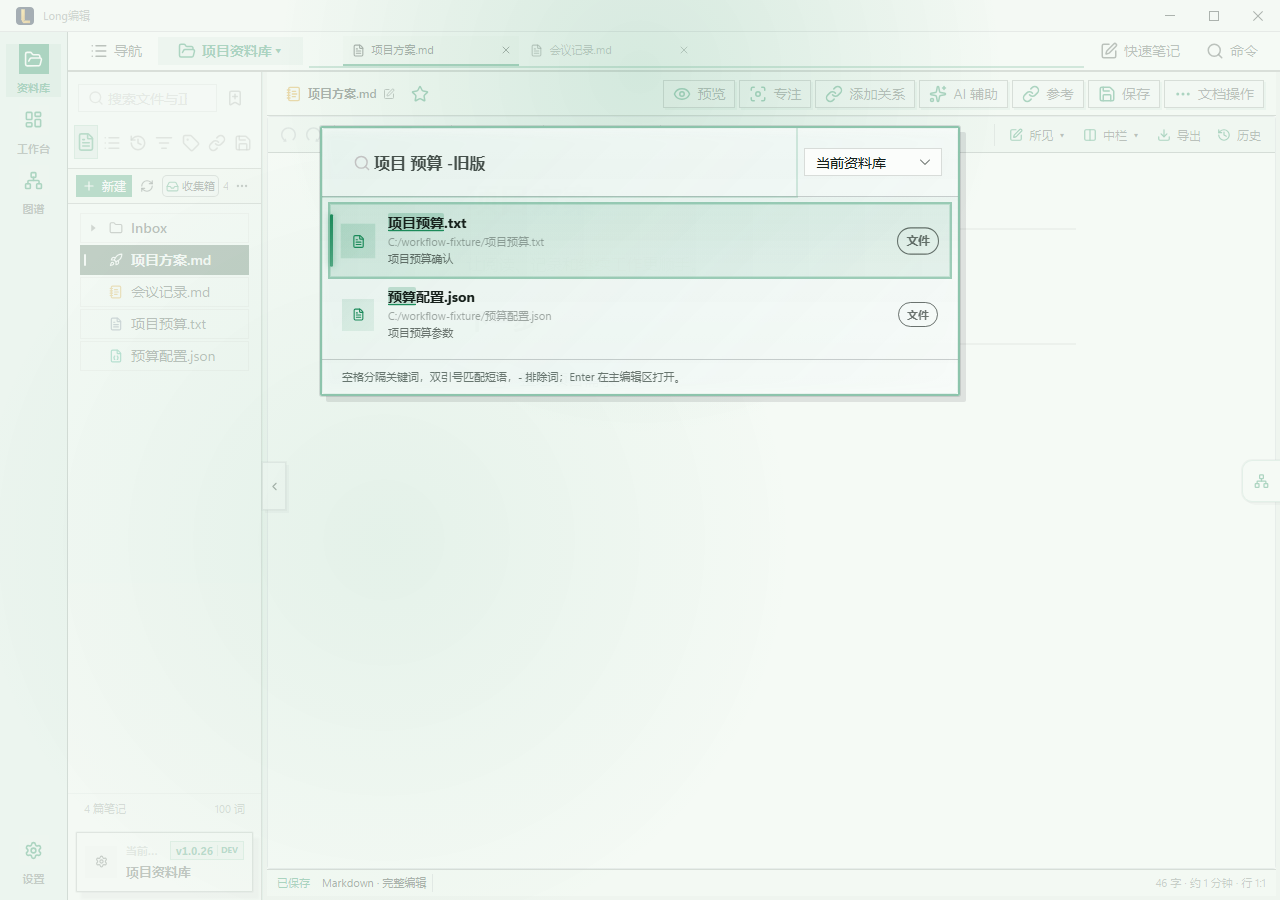
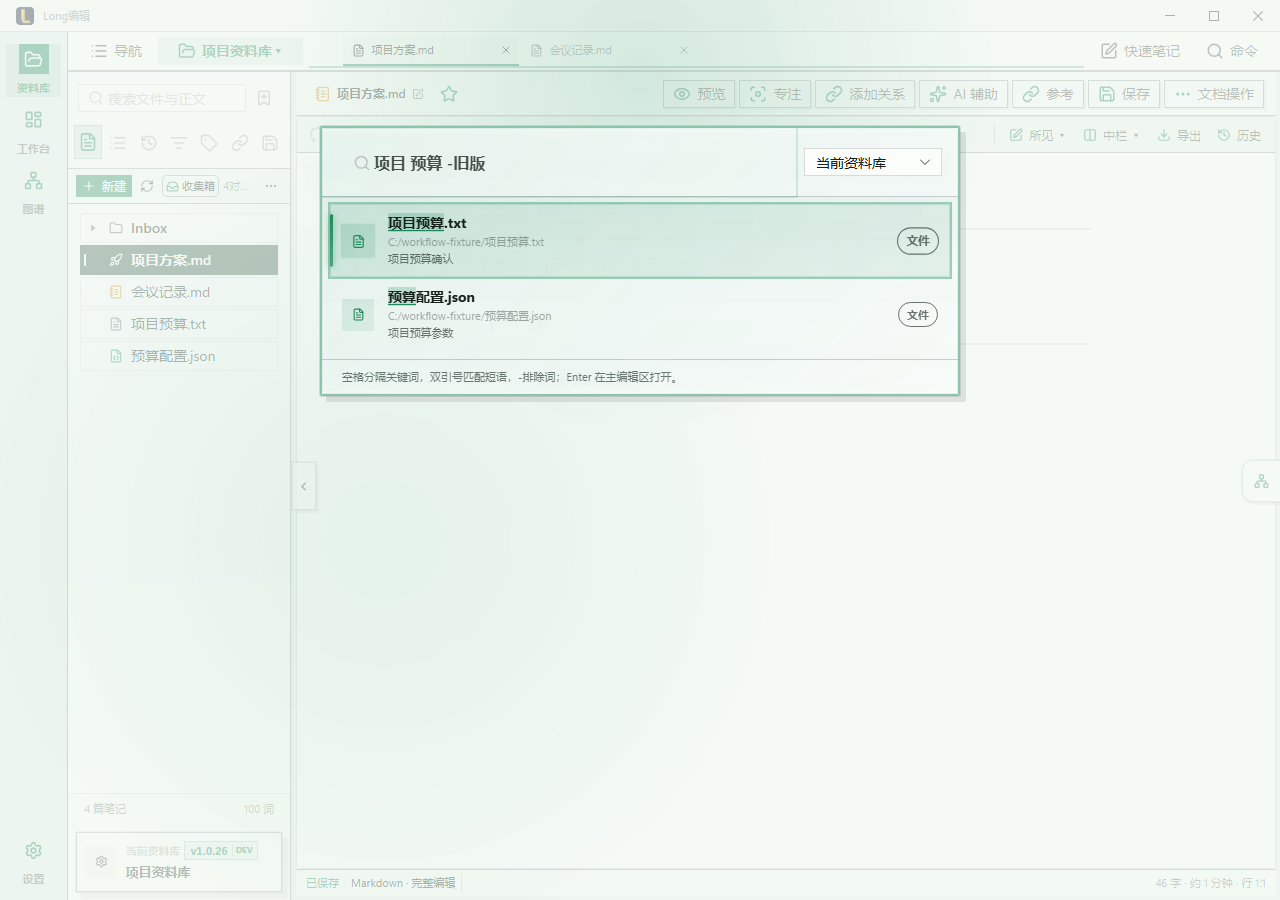
fix: parse quoted HTML image attributes safely and label the real search input

diff --git a/src/components/CommandPalette.vue b/src/components/CommandPalette.vue
@@ -8,7 +8,7 @@
           ref="inputInst"
           v-model:value="query"
           placeholder="搜索笔记或执行命令 (> 开头)"
-          aria-label="搜索资料或命令"
+          :input-props="{ 'aria-label': '搜索资料或命令' }"
           :maxlength="500"
           :disabled="opening"
           @keydown.enter="handleEnter"
@@ -51,7 +51,7 @@
         <div class="no-results" v-else-if="query.trim().length > 0 && !searching && !error">
           无匹配结果
         </div>
-        <div v-if="!query.startsWith('>')" class="palette-status palette-help">{{ limitReached ? '最多显示 200 条结果。' : '' }}空格分隔关键词，双引号匹配短语，- 排除词；Enter 在主编辑区打开。</div>
+        <div v-if="!query.startsWith('>')" class="palette-status palette-help">{{ limitReached ? '最多显示 200 条结果。' : '' }}空格分隔关键词，双引号匹配短语，-排除词；Enter 在主编辑区打开。</div>
       </div>
     </div>
   </transition>

diff --git a/src-tauri/src/services/external_import.rs b/src-tauri/src/services/external_import.rs
@@ -12,7 +12,10 @@ use std::{
 };
 
 static HTML_IMAGE: LazyLock<regex::Regex> = LazyLock::new(|| {
-    regex::Regex::new(r#"(?is)<img\b[^>]*?\s+src\s*=\s*(?:"([^"]*)"|'([^']*)'|([^\s>]+))"#).unwrap()
+    regex::Regex::new(
+        r#"(?is)<img\b(?:"[^"]*"|'[^']*'|[^"'<>])*?\s+src\s*=\s*(?:"([^"]*)"|'([^']*)'|([^\s>]+))"#,
+    )
+    .unwrap()
 });
 const MAX_MARKDOWN_BYTES: u64 = 20 * 1024 * 1024;
 const MAX_IMAGES: usize = 512;
@@ -473,6 +476,35 @@ mod tests {
             fs::read(root.join("library/data.table.json")).unwrap(),
             b"existing"
         );
+        fs::remove_dir_all(root).unwrap();
+    }
+    #[test]
+    fn html_image_attributes_do_not_hide_or_impersonate_the_real_source() {
+        let root = fixture();
+        let source = root.join("source/note.md");
+        let text =
+            "<img title=\"a > b\" data-hint=\" src='images/missing.png'\" src=\"images/a.png\">\n";
+        fs::write(&source, text).unwrap();
+        fs::write(root.join("source/images/a.png"), b"real-image").unwrap();
+        let imported = import_file(&source, &root.join("library")).unwrap();
+        let content = fs::read_to_string(imported).unwrap();
+        assert!(content.contains("note.assets/0001-a.png"), "the real src must be migrated even when other attributes contain angle brackets or src-like text");
+        assert!(content.contains("data-hint=\" src='images/missing.png'\""));
+        assert_eq!(
+            fs::read(root.join("library/note.assets/0001-a.png")).unwrap(),
+            b"real-image"
+        );
+        assert_eq!(fs::read_to_string(&source).unwrap(), text);
+        fs::write(
+            &source,
+            "<img alt=\" src='images/a.png'\" src=\"images/missing.png\">",
+        )
+        .unwrap();
+        assert!(
+            import_file(&source, &root.join("library")).is_err(),
+            "an attribute must not impersonate a missing real image source"
+        );
+        assert!(!root.join("library/note - 副本.md").exists());
         fs::remove_dir_all(root).unwrap();
     }
     #[test]

diff --git a/docs/V1_1_5_Unsigned_Community_Release_Audit_2026-10-15.md b/docs/V1_1_5_Unsigned_Community_Release_Audit_2026-10-15.md
@@ -10,6 +10,10 @@
 
 2026-10-16 接续：44 份当前版本身份文件已从 1.1.4 原子迁移到 1.1.5（含 37 份合同），历史报告不变。迁移后完整 `npm run ci:patch-release` 通过，生产依赖审计 0 漏洞。新增 10 项安装态流程和严格证据绑定检查，包含完整证据可接受、缺失/改写/错误安装器摘要必须拒绝的回归；安装流程尚待实际执行，不能把脚本存在当成已验收。
 
+首轮冻结源码 `b4634214076972b6401973d73507869e905b53d9` 的构建运行 `38766390430` 主动取消，不能用于晋级：收尾自审发现 HTML 图片属性包含 `>` 或类似 `src=` 的文字时，正则会忽略/误认真实图片路径。新增真实文件系统测试在修复前确实失败（未生成预期迁移路径），随后将完整引号属性视为一个整体，并把这个场景加入安装态原图字节检查。必须以修复后重新冻结的源码与安装器验收，不复用本轮候选结果。
+
+修复后完整回归 **726 项原生功能通过、0 失败、5 项既有 ignored**；独立工作簿性能首轮通过（145 / 2579 / 1931 ms，合计 4656 ms），预算不变。实际 DOM 另发现 Naive 输入组件没有把无障碍名称传给真正的输入框，已改用组件正式的 `input-props` 并增加按“搜索资料或命令”可访问名称定位的断言；不是移除检查或改成点击不可见控件。搜索实际页面再次检查，7 组流程、12 组布局、0 页面错误；最后完整质量门与生产依赖审计通过。
+
 - 运行时、锁文件、37 份当前能力合同和开发状态一致为 1.1.5，历史证据不改写。
 - 冻结完整源码 SHA，构建 MSI/NSIS，保留精确大小、SHA256 与未签名提示。
 - 从公开 1.1.4 NSIS 覆盖升级，验证数据/配置保留、回滚及现有格式用户流程。
